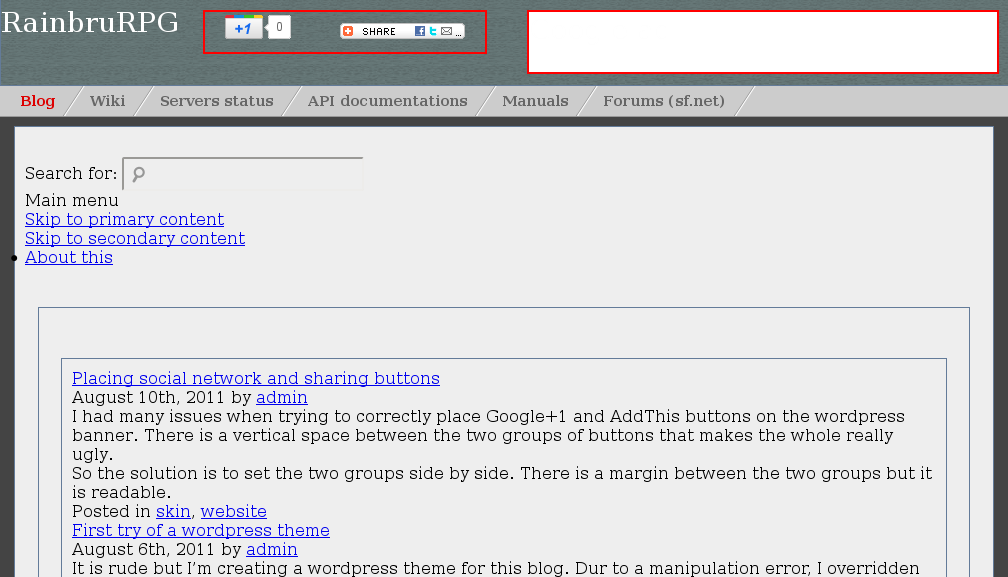
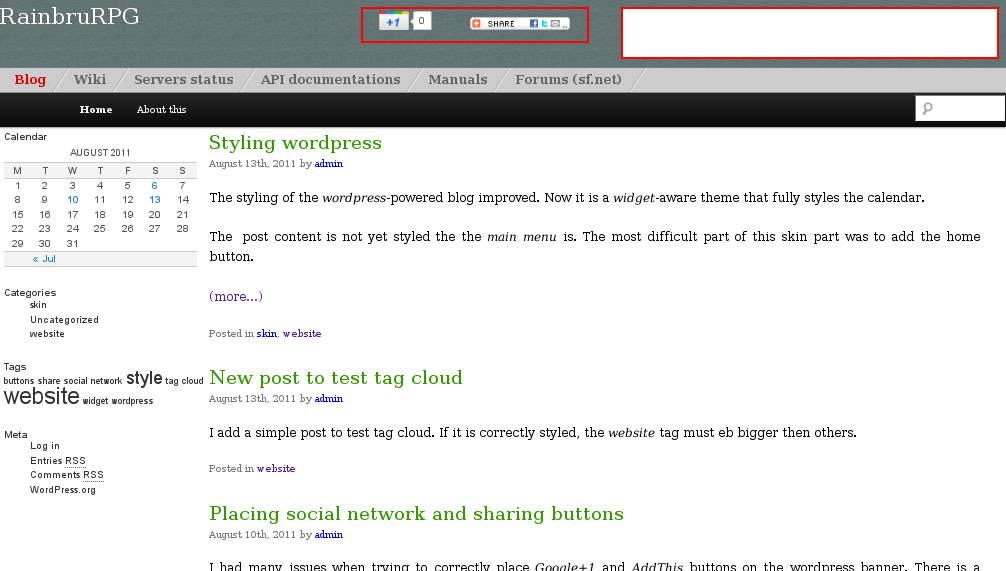
Add a footer to WP theme

diff --git a/website/skin01/wordpress/style.css b/website/skin01/wordpress/style.css
@@ -435,3 +435,8 @@ table#wp-calendar {
   font-size: 74%;
   line-height: 1.5em;
 }
+
+a img {
+  text-decoration: none;
+  border: 0 none;
+}

diff --git a/website/skin01/wordpress/footer.php b/website/skin01/wordpress/footer.php
@@ -1,0 +1,32 @@
+</div><!-- #main -->
+<div id="rb-skin01-footer">
+
+			<?php
+				/* A sidebar in the footer? Yep. You can can customize
+				 * your footer with three columns of widgets.
+				 */
+				get_sidebar( 'footer' );
+			?>
+
+
+  Copyrights 2007-2011 The RainbruRPG contributors.
+
+  <span id="rb-skin01-footer-right">
+  <a href="http://sourceforge.net/projects/rainbrurpg">
+    <img src="http://sflogo.sourceforge.net/sflogo.php?group_id=193011&amp;type=12" 
+    alt="Get RainbruRPG at SourceForge.net. Fast, secure and Free Open Source software downloads" 
+    height="30" width="120"></a>
+  </span>
+
+  <span id="rb-skin01-footer-right">
+	<a href="http://wordpress.org/">
+	<img src="wp-content/themes/rainbrurpg/images/smbutton-blue.png" 
+	alt="Powered by Wordpress" height="30" width="25">
+	</a>
+  </span>
+  <div id="clear">&nbsp;</div>
+</div>
+
+<?php wp_footer(); ?>
+</body>
+</html>
